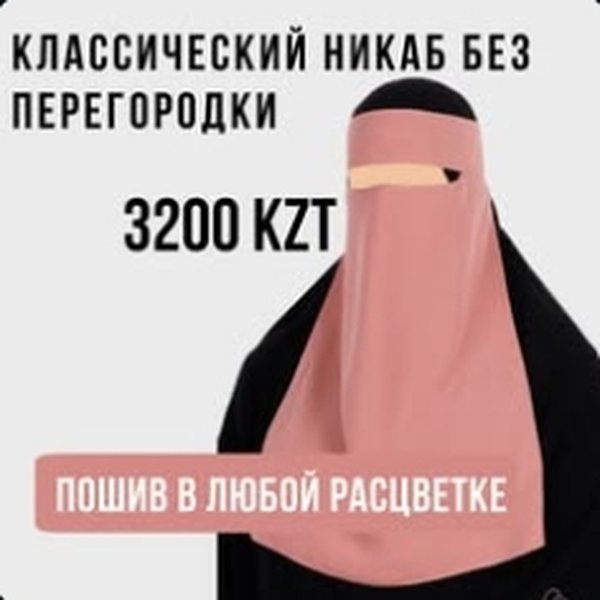
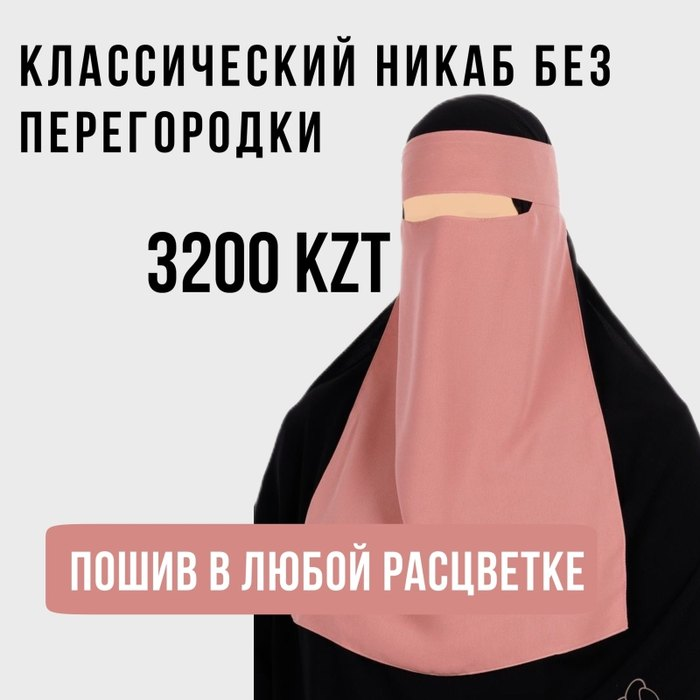
Всё на заказ: конструктор модели (цвет, размер/мерки, длина, слои и др.)
Claude-Session: https://claude.ai/code/session_01BjYnbWiNAhnLQcAmLWgBQq

diff --git a/index.html b/index.html
@@ -109,6 +109,33 @@ footer a{color:var(--accent);font-weight:600;text-decoration:none;margin-right:1
 .df .green{width:100%}
 .hint{font-size:12px;color:var(--muted);text-align:center;margin-top:6px}
 
+/* конструктор */
+.badge{display:inline-block;background:var(--accent-l);color:var(--accent);font-size:12px;font-weight:600;border-radius:6px;padding:2px 8px;align-self:flex-start}
+.price small{font-size:13px;font-weight:500;color:var(--muted)}
+.mk{position:fixed;inset:0;z-index:55;display:none;align-items:flex-end;justify-content:center}
+.mk.on{display:flex}
+.mk .bg{position:absolute;inset:0;background:rgba(0,0,0,.45)}
+.mbox{position:relative;background:var(--bg);width:min(560px,100%);max-height:92vh;overflow:auto;border-radius:20px 20px 0 0;padding:0 0 16px}
+@media(min-width:700px){.mk{align-items:center}.mbox{border-radius:20px}}
+.mtop{display:flex;gap:12px;align-items:center;padding:14px 16px;background:var(--card);border-bottom:1px solid var(--line);position:sticky;top:0;z-index:2}
+.mtop img{width:64px;height:64px;border-radius:10px;object-fit:cover}
+.mtop h3{font-size:16px;line-height:1.25;flex:1}
+.mtop .chip{width:34px;height:34px;border-radius:50%;border:2px solid #fff;box-shadow:0 0 0 1px var(--line);flex:none}
+.step{padding:14px 16px 4px}
+.step h4{font-size:14px;margin-bottom:8px;display:flex;justify-content:space-between}
+.step h4 span{font-weight:500;color:var(--muted)}
+.sw{display:flex;flex-wrap:wrap;gap:10px}
+.sw button{width:40px;height:40px;border-radius:50%;border:2px solid #fff;box-shadow:0 0 0 1px var(--line);padding:0}
+.sw button.on{box-shadow:0 0 0 2px var(--accent)}
+.sw button.own{background:conic-gradient(#e9b8b0,#c9d0e6,#b8d8c0,#efe0b0,#e9b8b0);font-size:18px;color:#fff;text-shadow:0 0 3px rgba(0,0,0,.5)}
+.pills{display:flex;flex-wrap:wrap;gap:8px}
+.pills button{border:1px solid var(--line);background:#fff;border-radius:10px;padding:9px 14px;font-size:14px;color:var(--text)}
+.pills button.on{border-color:var(--accent);background:var(--accent-l);font-weight:600}
+.step .note{font-size:12px;color:var(--muted);margin-top:6px}
+.meas{display:grid;grid-template-columns:1fr 1fr;gap:8px;margin-top:8px}
+.mfoot{padding:14px 16px 0;display:flex;gap:10px;align-items:center}
+.mfoot .price{flex:1}
+.mfoot .add{flex:2}
 .toast{position:fixed;left:50%;bottom:90px;transform:translateX(-50%);background:var(--text);color:#fff;padding:10px 18px;border-radius:10px;font-size:14px;opacity:0;transition:.2s;pointer-events:none;z-index:60}
 .toast.on{opacity:1}
 </style>
@@ -123,14 +150,14 @@ footer a{color:var(--accent);font-weight:600;text-decoration:none;margin-right:1
 <main class="wrap">
   <section class="intro">
     <h1>Джилбабы, абайи, химары и никабы</h1>
-    <p>Шьём сами, в Алматы. Можно выбрать готовую модель или заказать пошив в нужном цвете и по вашим меркам.</p>
-    <div class="info"><span>🕐 Заказы принимаем круглосуточно</span><span>🎨 Пошив в любой расцветке</span><span>📦 Доставка по Казахстану</span></div>
+    <p>Готовых вещей на складе нет — каждую модель шьём под вас: в выбранном цвете и по вашему размеру.</p>
+    <div class="info"><span>✂ Всё шьём на заказ</span><span>🎨 Любая расцветка</span><span>🕐 Заказы круглосуточно</span><span>📦 Доставка по Казахстану</span></div>
   </section>
 
   <div class="how">
-    <div><b>1</b> Выберите модель, размер и цвет</div>
-    <div><b>2</b> Нажмите «В корзину», затем «Оформить»</div>
-    <div><b>3</b> Заказ уйдёт нам в WhatsApp — мы ответим</div>
+    <div><b>1</b> Выберите модель и нажмите «Собрать»</div>
+    <div><b>2</b> Выберите цвет, размер и детали</div>
+    <div><b>3</b> Отправьте заказ в WhatsApp — уточним сроки</div>
   </div>
 
   <h2 id="catalog">Каталог</h2>
@@ -139,8 +166,8 @@ footer a{color:var(--accent);font-weight:600;text-decoration:none;margin-right:1
 
   <section class="custom" id="custom">
     <div>
-      <h2>Пошив на заказ</h2>
-      <p>Нужен другой цвет, длина или своя модель? Заполните форму — мы напишем в WhatsApp, подберём ткань и скажем цену.</p>
+      <h2>Своя модель</h2>
+      <p>Нужно то, чего нет в каталоге? Опишите идею — мы напишем в WhatsApp, подберём ткань и скажем цену.</p>
     </div>
     <form onsubmit="sendCustom(event)">
       <input id="cName" placeholder="Имя" required>
@@ -154,9 +181,10 @@ footer a{color:var(--accent);font-weight:600;text-decoration:none;margin-right:1
   </section>
 
   <h2>Вопросы</h2>
-  <details><summary>Как узнать свой размер?</summary><p>Нужны рост и обхват груди. Если не уверены — выберите «По меркам» и напишите их в комментарии к заказу.</p></details>
-  <details><summary>Можно другой цвет?</summary><p>Да. Выберите «Другой цвет» и напишите, какой нужен.</p></details>
-  <details><summary>Как оплатить и сколько ждать?</summary><p>Оплату и сроки подтвердим в WhatsApp после того, как получим заказ.</p></details>
+  <details><summary>Почему нет готовых вещей?</summary><p>Мы шьём каждую вещь под конкретный заказ — так вы получаете нужный цвет и размер.</p></details>
+  <details><summary>Как узнать свой размер?</summary><p>Достаточно роста и обхвата груди. В конструкторе выберите «По меркам» и впишите их.</p></details>
+  <details><summary>Нужного цвета нет в списке?</summary><p>Нажмите разноцветный кружок «Свой цвет» и опишите оттенок — можно прислать фото в WhatsApp.</p></details>
+  <details><summary>Как оплатить и сколько ждать?</summary><p>Оплату и срок пошива подтвердим в WhatsApp после того, как получим заказ.</p></details>
 </main>
 
 <footer><div class="wrap row">
@@ -184,7 +212,7 @@ footer a{color:var(--accent);font-weight:600;text-decoration:none;margin-right:1
         <label><input type="radio" name="dlv" value="Самовывоз">Самовывоз</label>
       </div>
       <input id="oAddr" placeholder="Город, адрес">
-      <textarea id="oNote" rows="2" placeholder="Комментарий (рост, мерки, пожелания)"></textarea>
+      <textarea id="oNote" rows="2" placeholder="Комментарий (пожелания)"></textarea>
     </form>
   </div>
   <div class="df">
@@ -194,26 +222,44 @@ footer a{color:var(--accent);font-weight:600;text-decoration:none;margin-right:1
   </div>
 </aside>
 
+<div class="mk" id="mk">
+  <div class="bg" onclick="closeMk()"></div>
+  <div class="mbox" id="mbox"></div>
+</div>
+
 <div class="toast" id="toast"></div>
 
 <script>
 // TODO: номер WhatsApp ателье — международный формат, без + и пробелов
 const WA_NUMBER = "77000000000";
 
-const P = [
- {id:1,cat:"Джилбабы",name:"Джилбаб-двойка, синий",desc:"Накидка и юбка, свободный крой",price:18500,img:"images/jilbab-siniy.jpg",colors:["Синий","Чёрный","Другой цвет"]},
- {id:2,cat:"Абайи",name:"Абайя с воланами, серая",desc:"Воланы по низу и на рукавах",price:19900,img:"images/abaya-volany.jpg",colors:["Серый","Другой цвет"]},
- {id:3,cat:"Абайи",name:"Абайя с узорными рукавами",desc:"Чёрная, рукава из светлой ткани с принтом",price:18500,img:"images/abaya-uzor.jpg",colors:["Чёрный/белый","Другой цвет"]},
- {id:4,cat:"Абайи",name:"Абайя «батвинг», шоколад",desc:"Рукав «летучая мышь»",price:14800,img:"images/abaya-batving.jpg",colors:["Шоколад","Чёрный","Другой цвет"]},
- {id:5,cat:"Химары",name:"Длинный химар, пудровый",desc:"Хорошо закрывает фигуру",price:15400,img:"images/himar-pudra.jpg",colors:["Пудровый","Другой цвет"]},
- {id:6,cat:"Никабы",name:"Никаб классический, без перегородки",desc:"Шьём в любой расцветке",price:3200,img:"images/nikab.jpg",colors:["Пудровый","Чёрный","Другой цвет"],noSize:true}
+const COLORS=[
+ ["Чёрный","#1d1b1c"],["Графит","#5d5c61"],["Тёмно-синий","#2c3a63"],["Изумрудный","#2f5d50"],["Хаки","#7a7558"],
+ ["Шоколад","#5a3e36"],["Мокко","#8a6a5a"],["Бежевый","#d8c3a8"],["Молочный","#f1ebe1"],["Пудровый","#d9a3a0"],
+ ["Пыльная роза","#b97d7d"],["Бордовый","#6e2a35"],["Лавандовый","#a99bbd"],["Голубой","#a9c1d6"]
 ];
-const SIZES=["S","M","L","XL","По меркам"];
+const SIZES=["S (42–44)","M (46–48)","L (50–52)","XL (54–56)","По меркам"];
+const P = [
+ {id:1,cat:"Джилбабы",name:"Джилбаб-двойка",desc:"Накидка и юбка, свободный крой",price:18500,img:"images/jilbab-siniy.jpg",def:"Тёмно-синий",
+  opts:[{k:"Длина накидки",v:["До колен","До середины икры","В пол"]},{k:"Юбка",v:["На резинке","На завязках"]}]},
+ {id:2,cat:"Абайи",name:"Абайя с воланами",desc:"Воланы по низу и на рукавах",price:19900,img:"images/abaya-volany.jpg",def:"Графит",
+  opts:[{k:"Длина",v:["Стандарт","Длиннее на 5 см","Короче на 5 см"]}]},
+ {id:3,cat:"Абайи",name:"Абайя с узорными рукавами",desc:"Рукава из светлой ткани с принтом",price:18500,img:"images/abaya-uzor.jpg",def:"Чёрный",
+  opts:[{k:"Рукава",v:["Узор как на фото","Однотонные"]},{k:"Длина",v:["Стандарт","Длиннее на 5 см","Короче на 5 см"]}]},
+ {id:4,cat:"Абайи",name:"Абайя «батвинг»",desc:"Рукав «летучая мышь», легко надевать",price:14800,img:"images/abaya-batving.jpg",def:"Шоколад",
+  opts:[{k:"Манжеты",v:["С манжетами","Без манжет"]},{k:"Длина",v:["Стандарт","Длиннее на 5 см","Короче на 5 см"]}]},
+ {id:5,cat:"Химары",name:"Длинный химар",desc:"Хорошо закрывает фигуру",price:15400,img:"images/himar-pudra.jpg",def:"Пудровый",
+  opts:[{k:"Длина",v:["До бёдер","До колен","Ниже колен"]}]},
+ {id:6,cat:"Никабы",name:"Классический никаб без перегородки",desc:"1-слойный, на завязках",price:3200,img:"images/nikab.jpg",def:"Пыльная роза",noSize:true,
+  opts:[{k:"Слои",v:["1 слой","2 слоя","3 слоя"],note:"Цена указана за 1 слой, за 2–3 слоя уточним"},{k:"Крепление",v:["Завязки","Резинка"]}]}
+];
 const fmt=n=>n.toLocaleString("ru-RU")+" ₸";
+const hex=n=>(COLORS.find(c=>c[0]===n)||[0,"#ddd"])[1];
 const $=id=>document.getElementById(id);
-let cart=[],filter="Все";
-try{cart=JSON.parse(localStorage.getItem("wos_cart"))||[]}catch(e){}
-function save(){try{localStorage.setItem("wos_cart",JSON.stringify(cart))}catch(e){}}
+const esc=s=>String(s).replace(/[&<>"']/g,c=>({"&":"&amp;","<":"&lt;",">":"&gt;",'"':"&quot;","'":"&#39;"}[c]));
+let cart=[],filter="Все",cfg=null;
+try{cart=JSON.parse(localStorage.getItem("wos_cart2"))||[]}catch(e){}
+function save(){try{localStorage.setItem("wos_cart2",JSON.stringify(cart))}catch(e){}}
 
 function renderFilters(){
   const cats=["Все",...new Set(P.map(p=>p.cat))];
@@ -223,21 +269,52 @@ function setFilter(c){filter=c;renderFilters();renderGrid()}
 function renderGrid(){
   $("grid").innerHTML=P.filter(p=>filter==="Все"||p.cat===filter).map(p=>`
   <div class="card"><img src="${p.img}" alt="${p.name}" loading="lazy">
-   <div class="b"><h3>${p.name}</h3><p>${p.desc}</p><div class="price">${fmt(p.price)}</div>
-    <div class="two">
-     ${p.noSize?"":`<label class="sel">Размер<select id="s${p.id}">${SIZES.map(s=>`<option>${s}</option>`).join("")}</select></label>`}
-     <label class="sel">Цвет<select id="c${p.id}">${p.colors.map(c=>`<option>${c}</option>`).join("")}</select></label>
-    </div>
-    <button class="add" id="a${p.id}" onclick="add(${p.id})">В корзину</button>
+   <div class="b"><span class="badge">Под заказ</span><h3>${p.name}</h3><p>${p.desc}</p>
+    <div class="price">${fmt(p.price)}</div>
+    <button class="add" onclick="openMk(${p.id})">Собрать</button>
    </div></div>`).join("");
 }
-function add(id){
+
+/* ---- конструктор ---- */
+function openMk(id){
   const p=P.find(x=>x.id===id);
-  const size=p.noSize?"":$("s"+id).value, color=$("c"+id).value, key=id+"|"+size+"|"+color;
-  const ex=cart.find(i=>i.key===key); ex?ex.q++:cart.push({key,id,size,color,q:1});
-  save();renderCart();
-  const b=$("a"+id);b.textContent="✓ Добавлено";b.classList.add("ok");
-  setTimeout(()=>{b.textContent="В корзину";b.classList.remove("ok")},1300);
+  cfg={id,color:p.def,own:"",size:p.noSize?"":"M (46–48)",h:"",b:"",opts:Object.fromEntries(p.opts.map(o=>[o.k,o.v[0]])),q:1};
+  drawMk();$("mk").classList.add("on");document.body.style.overflow="hidden";
+}
+function closeMk(){$("mk").classList.remove("on");document.body.style.overflow=""}
+function drawMk(){
+  const p=P.find(x=>x.id===cfg.id),own=cfg.color==="Свой цвет";
+  $("mbox").innerHTML=`
+  <div class="mtop"><img src="${p.img}" alt=""><h3>${p.name}<br><small style="color:var(--muted);font-weight:500">Шьём под ваш заказ</small></h3>
+   <div class="chip" style="background:${own?"conic-gradient(#e9b8b0,#c9d0e6,#b8d8c0,#efe0b0,#e9b8b0)":hex(cfg.color)}"></div>
+   <button class="x" onclick="closeMk()" aria-label="Закрыть">×</button></div>
+  <div class="step"><h4>Цвет <span>${own?(esc(cfg.own)||"свой"):cfg.color}</span></h4>
+   <div class="sw">${COLORS.map(c=>`<button class="${cfg.color===c[0]?"on":""}" style="background:${c[1]}" title="${c[0]}" aria-label="${c[0]}" onclick="setC('color','${c[0]}')"></button>`).join("")}
+   <button class="own ${own?"on":""}" title="Свой цвет" onclick="setC('color','Свой цвет')">+</button></div>
+   ${own?`<input style="margin-top:8px" placeholder="Опишите цвет, напр. «оливковый, как на фото»" value="${esc(cfg.own)}" oninput="cfg.own=this.value">`:""}
+  </div>
+  ${p.noSize?"":`<div class="step"><h4>Размер</h4>
+   <div class="pills">${SIZES.map(s=>`<button class="${cfg.size===s?"on":""}" onclick="setC('size','${s}')">${s}</button>`).join("")}</div>
+   ${cfg.size==="По меркам"?`<div class="meas"><input inputmode="numeric" placeholder="Рост, см" value="${esc(cfg.h)}" oninput="cfg.h=this.value"><input inputmode="numeric" placeholder="Обхват груди, см" value="${esc(cfg.b)}" oninput="cfg.b=this.value"></div>`:""}
+  </div>`}
+  ${p.opts.map((o,i)=>`<div class="step"><h4>${o.k}</h4>
+   <div class="pills">${o.v.map(v=>`<button class="${cfg.opts[o.k]===v?"on":""}" onclick="setO(${i},'${v}')">${v}</button>`).join("")}</div>
+   ${o.note?`<div class="note">${o.note}</div>`:""}</div>`).join("")}
+  <div class="step"><h4>Количество</h4><div class="q"><button onclick="cfg.q=Math.max(1,cfg.q-1);drawMk()">−</button>${cfg.q}<button onclick="cfg.q++;drawMk()">+</button></div></div>
+  <div class="mfoot"><div class="price">${fmt(p.price*cfg.q)}</div><button class="add" onclick="addCfg()">Добавить в заказ</button></div>`;
+}
+function setC(k,v){cfg[k]=v;drawMk()}
+function setO(i,v){const p=P.find(x=>x.id===cfg.id);cfg.opts[p.opts[i].k]=v;drawMk()}
+function addCfg(){
+  if(cfg.color==="Свой цвет"&&!cfg.own.trim()){toast("Опишите свой цвет");return}
+  if(cfg.size==="По меркам"&&(!cfg.h||!cfg.b)){toast("Впишите рост и обхват груди");return}
+  cart.push({...cfg,opts:{...cfg.opts},key:Date.now()+""});
+  save();renderCart();closeMk();toast("Добавлено в заказ ✓");
+}
+function details(i){
+  const color=i.color==="Свой цвет"?"Цвет: "+i.own:"Цвет: "+i.color;
+  const size=i.size?(i.size==="По меркам"?`Мерки: рост ${i.h}, грудь ${i.b}`:"Размер "+i.size):"";
+  return [color,size,...Object.entries(i.opts).map(([k,v])=>k+": "+v)].filter(Boolean);
 }
 function chg(k,d){const i=cart.find(x=>x.key===k);i.q+=d;if(i.q<1)cart=cart.filter(x=>x!==i);save();renderCart()}
 function total(){return cart.reduce((s,i)=>s+P.find(x=>x.id===i.id).price*i.q,0)}
@@ -246,9 +323,9 @@ function renderCart(){
   $("cnt").textContent=n;$("barCnt").textContent=n;$("barSum").textContent=fmt(total());$("sum").textContent=fmt(total());
   $("bar").classList.toggle("on",n>0);
   $("items").innerHTML=cart.length?cart.map(i=>{const p=P.find(x=>x.id===i.id);
-   return `<div class="item"><img src="${p.img}" alt=""><div class="t">${p.name}<small>${[i.size&&"Размер "+i.size,i.color].filter(Boolean).join(" · ")}</small>
+   return `<div class="item"><img src="${p.img}" alt=""><div class="t">${p.name}<small>${details(i).map(esc).join(" · ")}</small>
    <div class="q"><button onclick="chg('${i.key}',-1)">−</button>${i.q}<button onclick="chg('${i.key}',1)">+</button></div></div><b>${fmt(p.price*i.q)}</b></div>`}).join("")
-   :`<div class="empty">Корзина пустая.<br>Выберите что-нибудь в каталоге.</div>`;
+   :`<div class="empty">Заказ пока пустой.<br>Нажмите «Собрать» у любой модели.</div>`;
 }
 function wa(text){
   const a=document.createElement("a");
@@ -259,9 +336,9 @@ function sendOrder(e){
   e.preventDefault();
   if(!cart.length){toast("Корзина пустая");return}
   const lines=cart.map((i,n)=>{const p=P.find(x=>x.id===i.id);
-    return `${n+1}. ${p.name}${i.size?", размер "+i.size:""}, ${i.color} — ${i.q} шт. × ${fmt(p.price)}`});
+    return `${n+1}. ${p.name} — ${i.q} шт. × ${fmt(p.price)}\n   ${details(i).join("\n   ")}`});
   const dlv=document.querySelector("input[name=dlv]:checked").value;
-  wa(`Ассаляму алейкум! Заказ с сайта:\n\n${lines.join("\n")}\n\nИтого: ${fmt(total())}\n\nИмя: ${$("oName").value}\nТелефон: ${$("oPhone").value}\n${dlv}${$("oAddr").value?": "+$("oAddr").value:""}${$("oNote").value?"\nКомментарий: "+$("oNote").value:""}`);
+  wa(`Ассаляму алейкум! Заказ на пошив с сайта:\n\n${lines.join("\n")}\n\nИтого: ${fmt(total())}\n\nИмя: ${$("oName").value}\nТелефон: ${$("oPhone").value}\n${dlv}${$("oAddr").value?": "+$("oAddr").value:""}${$("oNote").value?"\nКомментарий: "+$("oNote").value:""}`);
 }
 function sendCustom(e){
   e.preventDefault();
